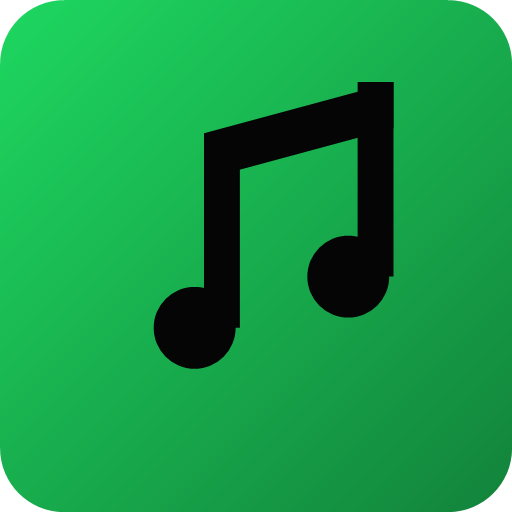
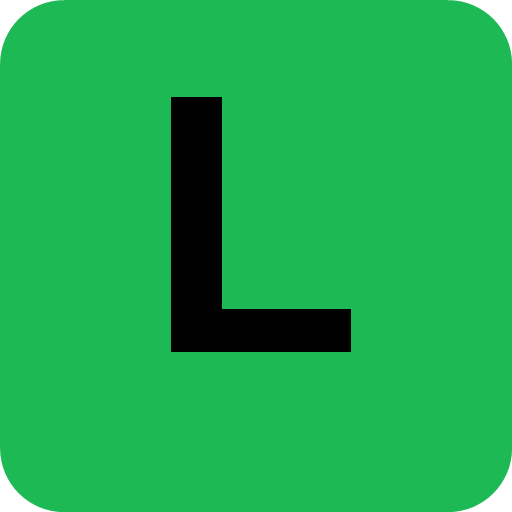
Fix lyrics search and Gemini AI fallback

diff --git a/server/index.js b/server/index.js
@@ -290,13 +290,53 @@ async function autoFetchAndSaveLyrics(track) {
   }
 }
 
-// Add a track to global library
+// Remove duplicate tracks from DB on startup
+async function removeDuplicateTracksFromDb() {
+  try {
+    const allTracks = await Track.find({}).sort({ createdAt: 1 });
+    const seenTitles = new Set();
+    const idsToDelete = [];
+    for (const t of allTracks) {
+      const key = (t.title || '').trim().toLowerCase();
+      if (seenTitles.has(key)) {
+        idsToDelete.push(t._id);
+      } else if (key) {
+        seenTitles.add(key);
+      }
+    }
+    if (idsToDelete.length > 0) {
+      await Track.deleteMany({ _id: { $in: idsToDelete } });
+      console.log(`[DB Clean] Cleaned ${idsToDelete.length} duplicate tracks from database.`);
+    }
+  } catch (err) {
+    console.warn('[DB Clean] Warning:', err.message);
+  }
+}
+setTimeout(removeDuplicateTracksFromDb, 3000);
+
+// Add a track to global library (preventing duplicates)
 app.post('/api/tracks/add', optionalAuth, async (req, res) => {
   try {
     const data = req.body;
     if (!data.title || !data.artist) {
       return res.status(400).json({ error: 'Title and artist required' });
     }
+
+    // Check if track already exists in database
+    const cleanTitleKey = (data.title || '').trim().toLowerCase();
+    const existing = await Track.findOne({
+      $or: [
+        { title: new RegExp(`^${cleanTitleKey.replace(/[.*+?^${}()|[\]\\]/g, '\\$&')}$`, 'i') },
+        ...(data.audioUrl ? [{ audioUrl: data.audioUrl }] : []),
+        ...(data.youtubeId ? [{ youtubeId: data.youtubeId }] : [])
+      ]
+    });
+
+    if (existing) {
+      autoFetchAndSaveLyrics(existing).catch(() => {});
+      return res.json({ success: true, track: { ...existing.toObject(), id: String(existing._id) }, isDuplicate: true });
+    }
+
     const track = await new Track({
       ...data,
       addedBy: req.user?.email || 'anonymous',
@@ -1393,20 +1433,20 @@ function isMatchValid(hitTitle, targetTitle) {
 
   const targetWords = cleanTarget
     .split(/\s+/)
-    .filter(w => w.length >= 3 && !['official', 'video', 'audio', 'lyric', 'music', 'كليب', 'فيديو', 'كلمات', 'أوديو', 'رسمي', 'channel', 'sony', 'rotana'].includes(w));
+    .filter(w => w.length >= 2 && !['official', 'video', 'audio', 'lyric', 'music', 'كليب', 'فيديو', 'كلمات', 'أوديو', 'رسمي', 'channel', 'sony', 'rotana', 'feat', 'ft', 'prod'].includes(w));
 
   if (targetWords.length === 0) return true;
   return targetWords.some(w => cleanHit.includes(w));
 }
 
-// Smart multi-query generator to extract clean titles for lyrics search
+// Smart multi-query generator to extract clean titles for lyrics search (handles multi-artist & YouTube noise)
 function generateLyricsSearchQueries(title = '', artist = '') {
   const queries = new Set();
 
   let cleanTitle = (title || '')
     .replace(/[\(\[\{].*?[\)\]\}]/gu, '')
     .replace(/Official\s*(Music\s*)?(Video|Audio|Lyric\s*Video|Visualizer)?/gi, '')
-    .replace(/الكليب\s*الرسمي|فيديو\s*كليب|فيديو|كلمات|أوديو|رسمي/gu, '')
+    .replace(/الكليب\s*الرسمي|فيديو\s*كليب|فيديو|كلمات|أوديو|رسمي|جديد/gu, '')
     .replace(/Sony Music.*|Rotana.*|Mazzika.*|YouTube.*|YouMusic.*/gi, '')
     .trim();
 
@@ -1416,21 +1456,38 @@ function generateLyricsSearchQueries(title = '', artist = '') {
     .replace(/Official.*|Channel.*/gi, '')
     .trim();
 
-  // Split by | or - or x
-  const parts = cleanTitle.split(/[|–—\-]/).map(p => p.trim()).filter(Boolean);
+  // Extract main artist (first artist before ft / x / & / comma / و)
+  const mainArtist = cleanArtist.split(/\s*[\,x\&\/\|]\s*|\s+(feat|ft|with|و)\s+/i)[0]?.trim() || '';
 
-  // Filter out parts that are only artist names
-  const songTitleParts = parts.filter(p => {
-    const pLower = p.toLowerCase();
-    return !['amr diab', 'عمرو دياب', 'wegz', 'ويجز', 'lege-cy', 'ليجي سي', 'marwan pablo', 'مروan بابلو', 'tamer hosny', 'تامر حسني', 'hamaki', 'محمد حماقي', 'sony music', 'rotana'].includes(pLower);
+  // Separate Arabic & English titles if separated by pipe | or slash /
+  const pipeParts = cleanTitle.split(/[|\/]/).map(p => p.trim()).filter(Boolean);
+
+  pipeParts.forEach(pipePart => {
+    // Split by dash - (e.g., "SHOFT KALAM - MARWAN PABLO x LEGE-CY")
+    const dashParts = pipePart.split(/\s+[\-\–\—]\s+/).map(p => p.trim()).filter(Boolean);
+
+    dashParts.forEach(part => {
+      // Isolate clean song title by removing multi-artist list (x ..., ft ..., feat ..., و ...)
+      const cleanSongName = part
+        .replace(/\b(feat|ft|featuring|with|prod|prod\.|x)\b.*/gi, '')
+        .replace(/\b(و|مع)\s+[\u0600-\u06FF\s]+$/gu, '')
+        .trim();
+
+      if (cleanSongName.length >= 2 && cleanSongName.length <= 40) {
+        if (mainArtist && !cleanSongName.toLowerCase().includes(mainArtist.toLowerCase())) {
+          queries.add(`${cleanSongName} ${mainArtist}`.trim());
+        }
+        if (cleanArtist && !cleanSongName.toLowerCase().includes(cleanArtist.toLowerCase())) {
+          queries.add(`${cleanSongName} ${cleanArtist}`.trim());
+        }
+        queries.add(cleanSongName);
+      }
+      queries.add(part);
+    });
   });
 
-  const songName = songTitleParts.join(' ').trim() || cleanTitle;
-
-  if (songName) {
-    if (cleanArtist) queries.add(`${songName} ${cleanArtist}`.trim());
-    queries.add(songName);
-  }
+  if (cleanTitle) queries.add(cleanTitle);
+  if (cleanTitle && mainArtist) queries.add(`${cleanTitle} ${mainArtist}`);
 
   return Array.from(queries).filter(q => q.length >= 2);
 }
@@ -1445,9 +1502,10 @@ async function fetchLyricsFromGenius(q, targetTitle, duration = 180) {
     const sections = searchData.response?.sections || [];
     const songSection = sections.find(s => s.type === 'song') || sections[0];
     const hits = songSection?.hits || [];
+    if (hits.length === 0) return [];
 
-    // Find hit that passes title validation
-    const hit = hits.find(h => isMatchValid(h.result?.full_title || h.result?.title, targetTitle));
+    // Find hit that passes title validation, or fallback to first hit
+    const hit = hits.find(h => isMatchValid(h.result?.full_title || h.result?.title, targetTitle)) || hits[0];
     if (!hit) return [];
 
     const pageRes = await fetch(hit.result.url, {
@@ -1490,7 +1548,6 @@ async function fetchRealLyricsFromLrclib(title, artist, duration = 180) {
       if (lrcRes.ok) {
         const results = await lrcRes.json();
         if (Array.isArray(results) && results.length > 0) {
-          // Filter results using title validator
           const validResults = results.filter(r => isMatchValid(r.trackName, title));
           const match = validResults.find(r => r.syncedLyrics) || validResults.find(r => r.plainLyrics) || validResults[0];
           
@@ -1527,6 +1584,48 @@ async function fetchRealLyricsFromLrclib(title, artist, duration = 180) {
     if (geniusLyrics.length > 0) {
       console.log(`[Genius Lyrics] Successfully fetched ${geniusLyrics.length} lines for "${q}"`);
       return geniusLyrics;
+    }
+  }
+
+  // 3. Fallback to Gemini AI to generate lyrics & timestamps if LRCLIB and Genius returned no results
+  if (GEMINI_API_KEY) {
+    try {
+      const prompt = `You are an expert lyrics provider and audio synchronizer. Provide the accurate line-by-line lyrics with timestamp tags [m:ss] for the song "${title}" by "${artist}". 
+Total duration is ${duration} seconds.
+If the song is in Arabic, output the lyrics in original Arabic.
+Format: Output ONLY timestamped lines starting with [m:ss] or [mm:ss], with no conversational introduction or conclusion text.`;
+
+      const geminiRes = await fetch(
+        `https://generativelanguage.googleapis.com/v1beta/models/gemini-1.5-flash:generateContent?key=${GEMINI_API_KEY}`,
+        {
+          method: 'POST',
+          headers: { 'Content-Type': 'application/json' },
+          body: JSON.stringify({ contents: [{ parts: [{ text: prompt }] }] })
+        }
+      );
+
+      if (geminiRes.ok) {
+        const data = await geminiRes.json();
+        const responseText = data.candidates?.[0]?.content?.parts?.[0]?.text || '';
+        const lines = responseText.split('\n');
+        const lyrics = [];
+        lines.forEach(line => {
+          const match = line.match(/\[(\d+):(\d+)\]\s*(.*)/);
+          if (match) {
+            const time = parseInt(match[1]) * 60 + parseInt(match[2]);
+            const text = match[3].trim();
+            if (text && !text.includes('Here are') && !text.includes('Lyrics:')) {
+              lyrics.push({ time, text });
+            }
+          }
+        });
+        if (lyrics.length > 0) {
+          console.log(`[Gemini AI Lyrics] Generated ${lyrics.length} synced lines for "${title}"`);
+          return lyrics;
+        }
+      }
+    } catch (err) {
+      console.warn('[Gemini AI Lyrics] fetch error:', err.message);
     }
   }
 

diff --git a/src/context/UserContext.jsx b/src/context/UserContext.jsx
@@ -89,6 +89,18 @@ export function UserProvider({ children }) {
     try { localStorage.setItem('liofy_liked', JSON.stringify(likedTrackIds)); } catch {}
   }, [likedTrackIds]);
 
+  const deduplicateTracks = (trackList) => {
+    if (!Array.isArray(trackList)) return [];
+    const map = new Map();
+    trackList.forEach(t => {
+      const key = (t.title || '').trim().toLowerCase();
+      if (!map.has(key) || (t.lyrics && t.lyrics.length > (map.get(key)?.lyrics?.length || 0))) {
+        map.set(key, t);
+      }
+    });
+    return Array.from(map.values());
+  };
+
   // ── Full sync from server ────────────────────────────
   const syncFromServer = useCallback(async () => {
     if (!getToken()) {
@@ -96,7 +108,7 @@ export function UserProvider({ children }) {
       try {
         const data = await api.get('/api/tracks');
         if (data.success && Array.isArray(data.tracks)) {
-          setTracks(data.tracks);
+          setTracks(deduplicateTracks(data.tracks));
         }
       } catch {}
       return;
@@ -112,7 +124,7 @@ export function UserProvider({ children }) {
         if (Array.isArray(data.tracks)) {
           const liked = new Set(data.likedTrackIds || []);
           const formatted = data.tracks.map(t => ({ ...t, liked: liked.has(t.id) }));
-          setTracks(formatted);
+          setTracks(deduplicateTracks(formatted));
         }
         if (Array.isArray(data.playlists)) {
           setPlaylists(data.playlists);